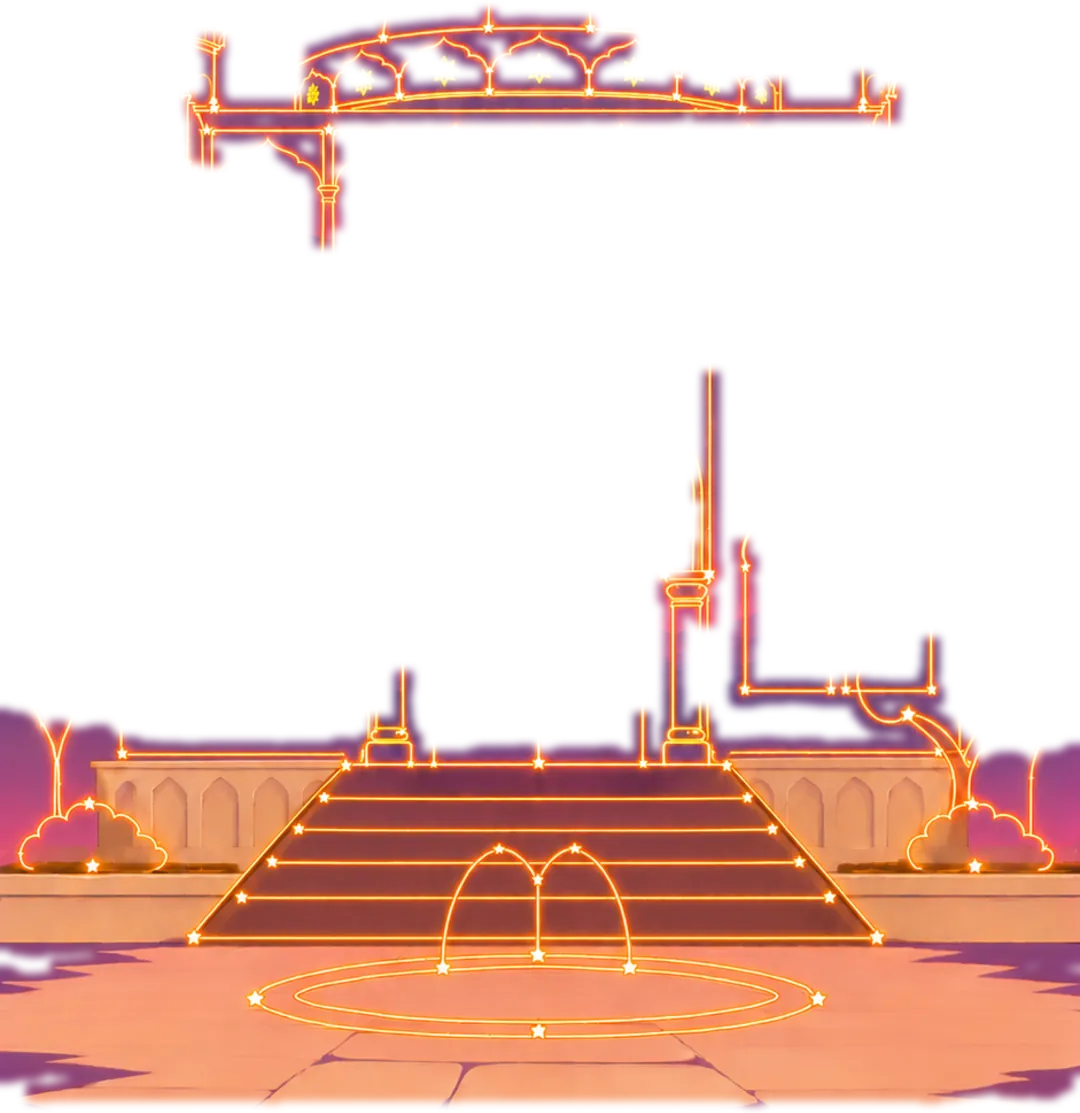
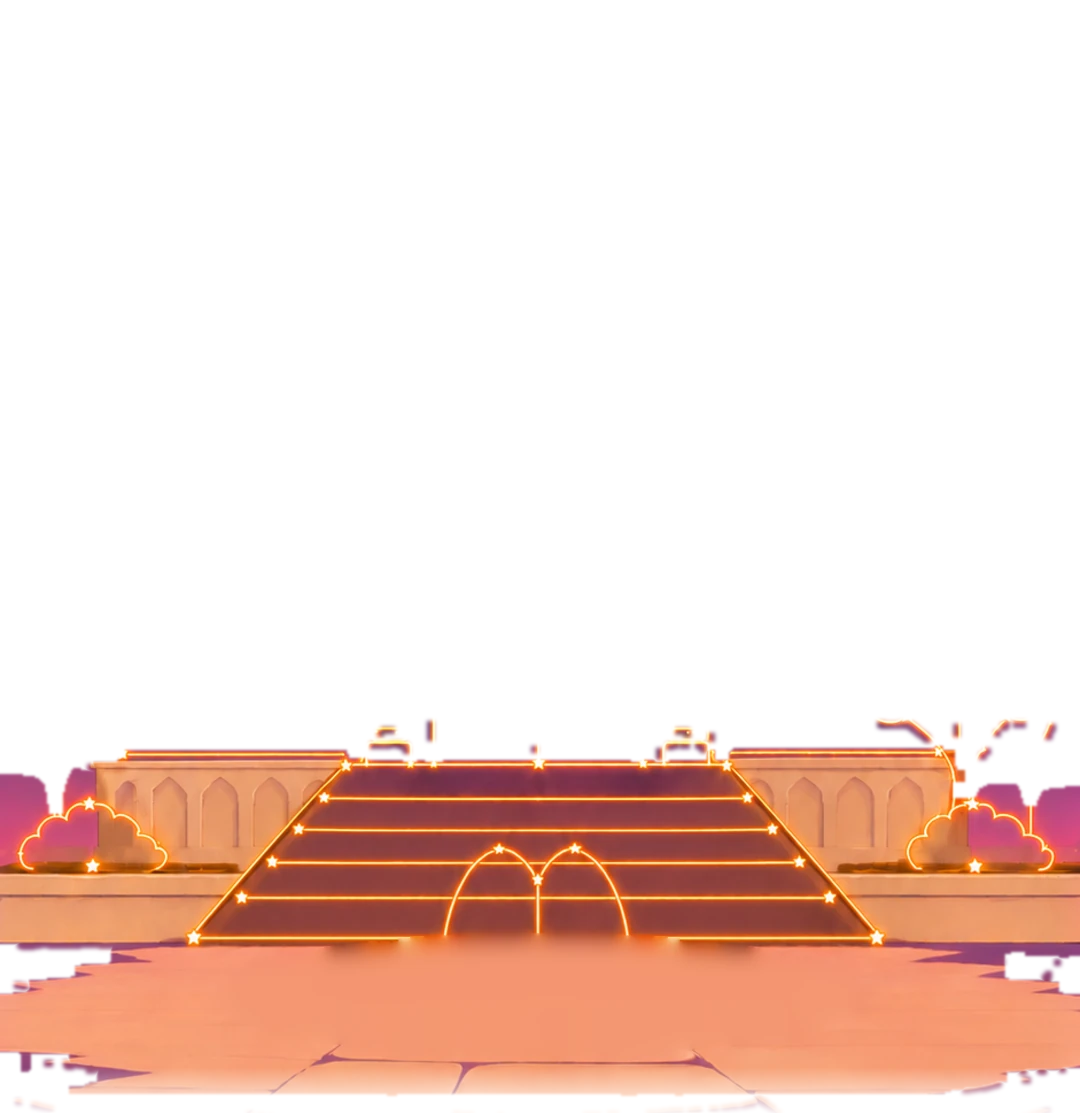
Dome: the other eight parts re-cut cleanly
Each part is now cut on its own outline from the painting where it is built, with nothing from
other parts, no purple halo, no stray clouds or windows; a built part also covers its own
leftover blueprint lines. Checked at every build step.

diff --git a/js/config.js b/js/config.js
@@ -97,28 +97,28 @@ window.GAME_CONFIG = {
       ruined: "assets/scenes/parts/pool_ruined.webp?v=4", restored: "assets/scenes/parts/pool_restored.webp?v=5" },
     { id: "terrace", layer: 0, name: "Terrace", cost: 12, story: "terrace", emoji: "🧱",
       box: { x: 0, y: 161, w: 360, h: 371 }, focus: { x: 0, y: 330, w: 360, h: 150 }, button: { x: 300, y: 392 }, // on the right stone wall, clear of the fountain and the Workshop button // frame the stone side walls, stairs and the paved yard: what actually changes
-      ruined: "assets/scenes/parts/terrace_ruined.webp", restored: "assets/scenes/parts/terrace_restored.webp" },
+      ruined: "assets/scenes/parts/terrace_ruined.webp?v=3", restored: "assets/scenes/parts/terrace_restored.webp?v=3" },
     { id: "walls", layer: 2, name: "Red Brick Walls", cost: 18, story: "walls", emoji: "🧱",
       box: { x: 0, y: 34, w: 360, h: 406 }, focus: { x: 25, y: 265, w: 310, h: 185 }, button: { x: 90, y: 360 },
-      ruined: "assets/scenes/parts/walls_ruined.webp", restored: "assets/scenes/parts/walls_restored.webp" },
+      ruined: "assets/scenes/parts/walls_ruined.webp?v=3", restored: "assets/scenes/parts/walls_restored.webp?v=3" },
     { id: "arch", layer: 3, name: "Iwan & Doors", cost: 24, story: "arch", tale: "tale2", mission: "twins", emoji: "🚪",
       box: { x: 31, y: 163, w: 273, h: 260 }, focus: { x: 120, y: 290, w: 120, h: 160 }, button: { x: 180, y: 330 },
-      ruined: "assets/scenes/parts/arch_ruined.webp", restored: "assets/scenes/parts/arch_restored.webp" },
+      ruined: "assets/scenes/parts/arch_ruined.webp?v=3", restored: "assets/scenes/parts/arch_restored.webp?v=3" },
     { id: "balcony", layer: 4, name: "Balcony", cost: 32, story: "balcony", emoji: "🏛",
       box: { x: 22, y: 36, w: 337, h: 404 }, focus: { x: 30, y: 210, w: 300, h: 100 }, button: { x: 180, y: 250 },
-      ruined: "assets/scenes/parts/balcony_ruined.webp", restored: "assets/scenes/parts/balcony_restored.webp" },
+      ruined: "assets/scenes/parts/balcony_ruined.webp?v=3", restored: "assets/scenes/parts/balcony_restored.webp?v=3" },
     { id: "dome", layer: 5, name: "Red Dome", cost: 42, story: "dome", tale: "tale3", mission: "door", emoji: "🕌",
       box: { x: 0, y: 34, w: 360, h: 425 }, focus: { x: 95, y: 60, w: 170, h: 160 }, button: { x: 180, y: 140 },
-      ruined: "assets/scenes/parts/dome_ruined.webp", restored: "assets/scenes/parts/dome_restored.webp" },
+      ruined: "assets/scenes/parts/dome_ruined.webp?v=3", restored: "assets/scenes/parts/dome_restored.webp?v=3" },
     { id: "tiles", layer: 6, name: "Tilework", cost: 52, story: "tiles", emoji: "💠",
       box: { x: 0, y: 5, w: 360, h: 502 }, focus: { x: 30, y: 250, w: 300, h: 200 }, button: { x: 270, y: 360 },
-      ruined: "assets/scenes/parts/tiles_ruined.webp", restored: "assets/scenes/parts/tiles_restored.webp" },
+      ruined: "assets/scenes/parts/tiles_ruined.webp?v=3", restored: "assets/scenes/parts/tiles_restored.webp?v=3" },
     { id: "towers", layer: 7, name: "Towers", cost: 64, story: "towers", emoji: "🗼",
       box: { x: 0, y: 0, w: 360, h: 513 }, focus: { x: 20, y: 150, w: 320, h: 150 }, button: { x: 62, y: 210 },
-      ruined: "assets/scenes/parts/towers_ruined.webp", restored: "assets/scenes/parts/towers_restored.webp" },
+      ruined: "assets/scenes/parts/towers_ruined.webp?v=3", restored: "assets/scenes/parts/towers_restored.webp?v=3" },
     { id: "garden", layer: 9, name: "Garden", cost: 80, story: "garden", emoji: "🌳",
       box: { x: 0, y: 15, w: 360, h: 443 }, focus: { x: 0, y: 280, w: 360, h: 220 }, button: { x: 84, y: 430 },
-      ruined: "assets/scenes/parts/garden_ruined.webp", restored: "assets/scenes/parts/garden_restored.webp" },
+      ruined: "assets/scenes/parts/garden_ruined.webp?v=3", restored: "assets/scenes/parts/garden_restored.webp?v=3" },
   ],
 
   energy: {

diff --git a/index.html b/index.html
@@ -69,7 +69,7 @@
   <!-- Editable content -->
   <script src="js/chains.js?v=11"></script>
   <script src="js/story.js?v=47"></script>
-  <script src="js/config.js?v=68"></script>
+  <script src="js/config.js?v=70"></script>
   <script src="js/i18n.js?v=52"></script>
   <!-- Engine -->
   <script src="js/util.js?v=34"></script>
